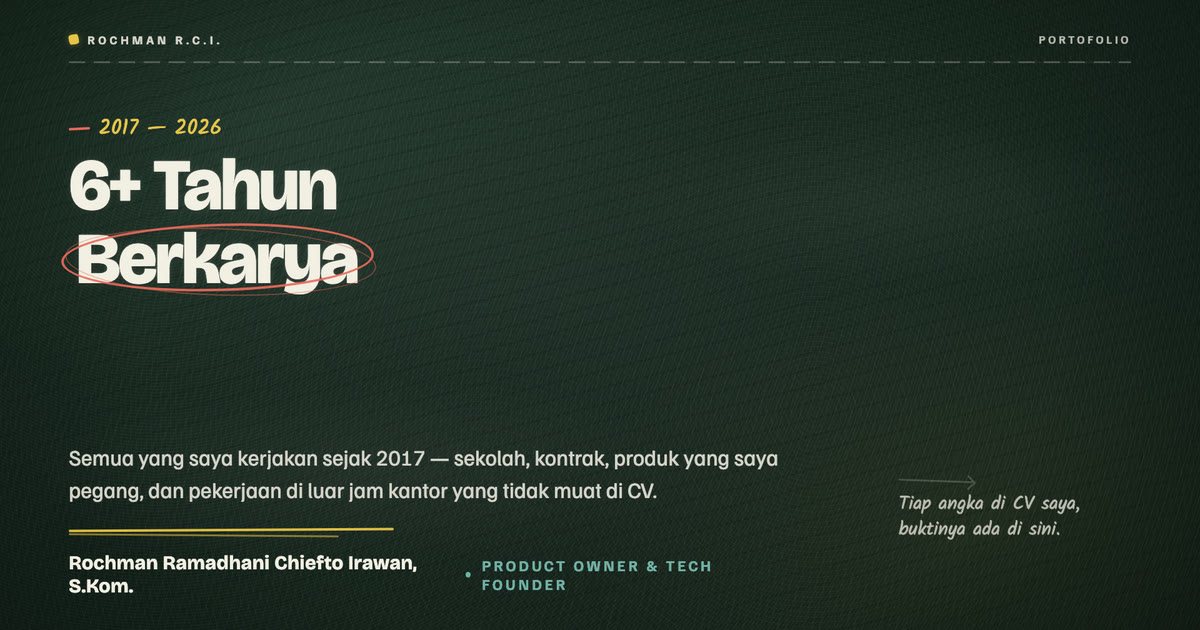
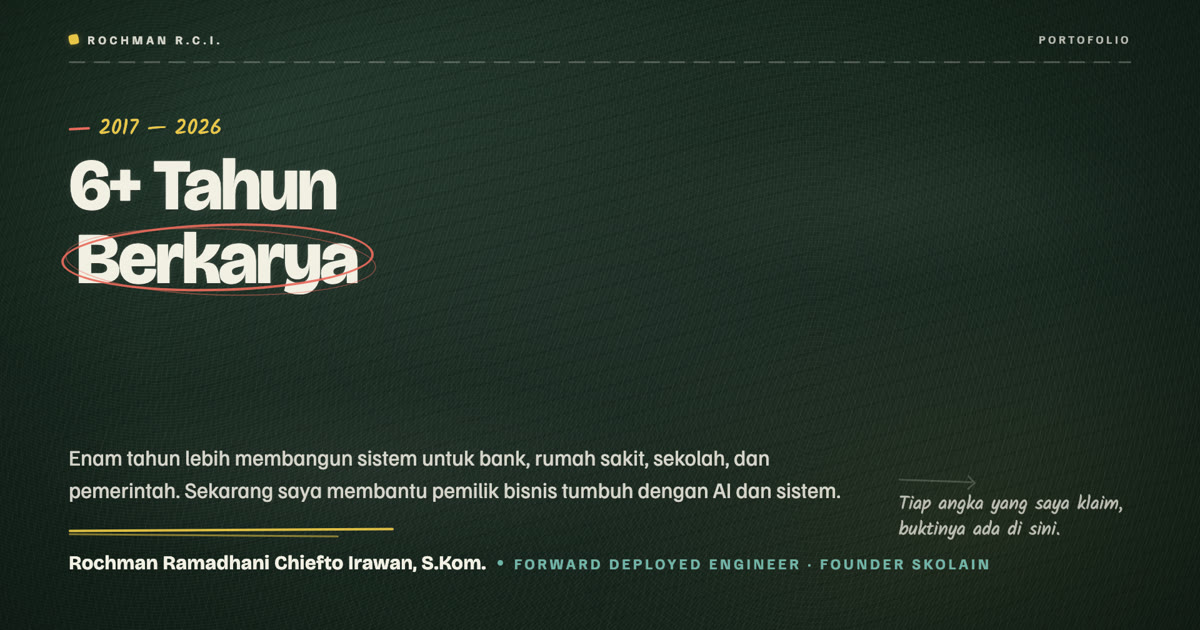
feat(deck): posisi FDE, AI Learning Partner sejak Agustus 2026, slide pemilik bisnis, handle baru (#7)

diff --git a/index.html b/index.html
@@ -4,7 +4,7 @@
 <meta charset="utf-8">
 <meta name="viewport" content="width=device-width, initial-scale=1, viewport-fit=cover">
 <title>6+ Tahun Berkarya — Portofolio Rochman Ramadhani</title>
-<meta name="description" content="Portofolio Rochman Ramadhani Chiefto Irawan — Product Owner & Tech Founder. Linimasa 2017–2026: sepuluh produk, konsultansi, dan pengajaran, lengkap dengan buktinya.">
+<meta name="description" content="Portofolio Rochman Ramadhani Chiefto Irawan — Forward Deployed Engineer yang membantu pemilik bisnis tumbuh dengan AI dan sistem. Founder Skolain. Linimasa 2017–2026: sepuluh produk, konsultansi, dan pengajaran, lengkap dengan buktinya.">
 <meta name="author" content="Rochman Ramadhani Chiefto Irawan">
 <meta name="theme-color" content="#14231C">
 <link rel="canonical" href="https://omanlabs.tech/">
@@ -21,21 +21,21 @@
 <meta property="og:site_name" content="Portofolio Rochman Ramadhani">
 <meta property="og:locale" content="id_ID">
 <meta property="og:title" content="6+ Tahun Berkarya — Portofolio Rochman Ramadhani">
-<meta property="og:description" content="Product Owner & Tech Founder. Linimasa 2017–2026: sepuluh produk, konsultansi, dan pengajaran, lengkap dengan buktinya.">
+<meta property="og:description" content="Forward Deployed Engineer — membantu pemilik bisnis tumbuh dengan AI dan sistem. Founder Skolain. 6+ tahun membangun untuk bank, rumah sakit, sekolah, dan pemerintah, lengkap dengan buktinya.">
 <meta property="og:url" content="https://omanlabs.tech/">
 <meta property="og:image" content="https://omanlabs.tech/assets/cover-v2.jpg">
 <meta property="og:image:type" content="image/jpeg">
 <meta property="og:image:width" content="1200">
 <meta property="og:image:height" content="630">
-<meta property="og:image:alt" content="Sampul deck: 6+ Tahun Berkarya — Rochman Ramadhani Chiefto Irawan, Product Owner & Tech Founder">
+<meta property="og:image:alt" content="Sampul deck: 6+ Tahun Berkarya — Rochman Ramadhani Chiefto Irawan, Forward Deployed Engineer · Founder Skolain">
 <meta property="profile:first_name" content="Rochman">
 <meta property="profile:last_name" content="Ramadhani Chiefto Irawan">
 
 <meta name="twitter:card" content="summary_large_image">
 <meta name="twitter:title" content="6+ Tahun Berkarya — Portofolio Rochman Ramadhani">
-<meta name="twitter:description" content="Product Owner & Tech Founder. Linimasa 2017–2026: sepuluh produk, konsultansi, dan pengajaran, lengkap dengan buktinya.">
+<meta name="twitter:description" content="Forward Deployed Engineer — membantu pemilik bisnis tumbuh dengan AI dan sistem. Founder Skolain. 6+ tahun membangun untuk bank, rumah sakit, sekolah, dan pemerintah, lengkap dengan buktinya.">
 <meta name="twitter:image" content="https://omanlabs.tech/assets/cover-v2.jpg">
-<meta name="twitter:image:alt" content="Sampul deck: 6+ Tahun Berkarya">
+<meta name="twitter:image:alt" content="Sampul deck: 6+ Tahun Berkarya — Rochman Ramadhani Chiefto Irawan, Forward Deployed Engineer · Founder Skolain">
 
 <style>
 /* ============================================================
@@ -915,18 +915,18 @@ a.card:focus-visible{outline:3px solid var(--yellow);outline-offset:4px;}
       6+ Tahun<br><span class="circled">Berkarya</span>
     </h1>
     <div class="cover-uline uline rv d3" style="--y:560px"><i></i><i></i></div>
-    <p class="cover-lead lead rv d4">
-      Semua yang saya kerjakan sejak 2017 — sekolah, kontrak, produk yang saya pegang,
-      dan pekerjaan di luar jam kantor yang tidak muat di CV.
+    <p class="cover-lead lead rv d4" style="width:1300px">
+      Enam tahun lebih membangun sistem untuk bank, rumah sakit, sekolah, dan pemerintah.
+      Sekarang saya membantu pemilik bisnis tumbuh dengan AI dan sistem.
     </p>
-    <div class="cover-by rv d5">
+    <div class="cover-by rv d5" style="width:1700px">
       <span class="name">Rochman Ramadhani Chiefto Irawan, S.Kom.</span>
       <span class="sep"></span>
-      <span class="role">Product Owner &amp; Tech Founder</span>
+      <span class="role">Forward Deployed Engineer · Founder Skolain</span>
     </div>
     <div class="cover-annot annot rv d6">
       <span class="arw"></span>
-      Tiap angka di CV saya, buktinya ada di sini.
+      Tiap angka yang saya klaim, buktinya ada di sini.
     </div>
   </div>
 </section>
@@ -940,20 +940,23 @@ a.card:focus-visible{outline:3px solid var(--yellow);outline-offset:4px;}
     <h2 class="head-md pos rv d2" style="--x:110px;--y:228px;--w:1120px">
       Rochman Ramadhani<br>Chiefto Irawan, S.Kom.
     </h2>
-    <div class="tx-m pos rv d3" style="--x:110px;--y:412px;--w:1060px">
-      Product Owner &amp; Tech Founder, Skolain — berangkat dari engineering.
+    <div class="tx-m pos rv d3" style="--x:110px;--y:404px;--w:1060px">
+      Forward Deployed Engineer — membantu pemilik bisnis tumbuh dengan AI dan sistem. Berangkat dari engineering.
     </div>
 
-    <div class="hbox glow ac-y pos rvbox d4" style="--x:110px;--y:502px;--w:1060px">
-      <div class="hbox-tag">sama seperti banyak orang</div>
-      <div class="tx-l mt-16">Saya juga lulusan <span class="mark-y">SMK</span></div>
-      <div class="hbox-text">SMKN 26 Jakarta · Sistem Informatika Jaringan · 2017–2021</div>
+    <div class="hbox glow ac-y pos rvbox d4" style="--x:110px;--y:510px;--w:1060px">
+      <div class="hbox-tag">sekarang</div>
+      <div class="items">
+        <div class="item"><span class="bx"></span><span class="tx"><b>Founder</b>, Skolain · sejak Juni 2026</span></div>
+        <div class="item"><span class="bx"></span><span class="tx"><b>Technology Partner</b>, Hegemoni Group · sejak Mei 2026</span></div>
+        <div class="item"><span class="bx"></span><span class="tx"><b>AI Learning Partner</b>, bersama Coach Rheo · sejak Agustus 2026</span></div>
+      </div>
     </div>
 
-    <div class="hbox ac-t pos rvbox d5" style="--x:110px;--y:706px;--w:1060px">
-      <div class="hbox-tag good">8 Agustus 2026</div>
-      <div class="tx-l mt-16">S.Kom. — <span class="mark-t">Sistem Informasi</span></div>
-      <div class="hbox-text">Binus Online Learning · kuliah sambil kerja penuh waktu · IPK 3,85, Magna Cum Laude</div>
+    <div class="hbox ac-t pos rvbox d5" style="--x:110px;--y:760px;--w:1060px">
+      <div class="hbox-tag good">sama seperti banyak orang</div>
+      <div class="tx-l mt-16">Lulusan <span class="mark-y">SMK</span>, lalu S.Kom. <span class="mark-t">Sistem Informasi</span></div>
+      <div class="hbox-text">SMKN 26 Jakarta, 2017–2021 · Binus, 8 Agustus 2026 · IPK 3,85, Magna Cum Laude</div>
     </div>
 
     <div class="photoframe pos rvbox d6" style="--x:1300px;--y:222px;--pw:470px;--ph:600px;--rot:2deg">
@@ -1031,7 +1034,7 @@ a.card:focus-visible{outline:3px solid var(--yellow);outline-offset:4px;}
       <div class="lane ac-c"><div class="lane-label">Konsultansi &amp; produk sendiri</div>
         <div class="lane-track">
           <span class="bar lbl-out" style="--y0:2024.0;--y1:2024.33"><span class="t">KLHK</span></span>
-          <span class="bar open lbl-left" style="--y0:2026.417;--y1:2026.63"><span class="t">Skolain — Tech Founder</span></span>
+          <span class="bar open lbl-left" style="--y0:2026.417;--y1:2026.63"><span class="t">Skolain — Founder</span></span>
         </div></div>
     </div>
 
@@ -1310,7 +1313,7 @@ a.card:focus-visible{outline:3px solid var(--yellow);outline-offset:4px;}
         <div class="card-num sm">Jun 2026 →</div>
         <div class="card-rule"></div>
         <div class="card-title">Skolain</div>
-        <div class="card-text">Tech Founder &amp; Product Owner. Produk pertama yang saya dirikan sendiri —
+        <div class="card-text">Founder &amp; Product Owner. Produk pertama yang saya dirikan sendiri —
           discovery, roadmap, prioritas rilis, acceptance criteria, sampai memimpin tim lintas fungsi ke production.</div>
       </div>
       <div class="card ac-t rvbox d6">
@@ -1381,7 +1384,7 @@ a.card:focus-visible{outline:3px solid var(--yellow);outline-offset:4px;}
       </div>
       <div class="map-row"><div class="map-a">Skolain</div>
         <div class="map-link"><span class="arrow"></span></div>
-        <div class="map-b">Tech Founder &amp; Product Owner — dari nol</div></div>
+        <div class="map-b">Founder &amp; Product Owner — dari nol</div></div>
       <div class="map-row"><div class="map-a">Dashboard keanggotaan asosiasi dokter</div>
         <div class="map-link"><span class="arrow"></span></div>
         <div class="map-b">Product Owner</div></div>
@@ -2012,39 +2015,39 @@ a.card:focus-visible{outline:3px solid var(--yellow);outline-offset:4px;}
   </div>
 </section>
 
-<!-- ===== 29 — ADVISORY: COACH RHEO ===== -->
-<section class="slide" data-sect="Advisory" data-sid="advisory">
+<!-- ===== 29 — KOLABORASI: COACH RHEO ===== -->
+<section class="slide" data-sect="Kolaborasi" data-sid="advisory">
   <div class="layer">
     <div class="eyebrow ac-y pos rv d1" style="--x:110px;--y:176px">
-      <span class="tick"></span><span class="t">AI Advisor · sejak Juli 2025</span>
+      <span class="tick"></span><span class="t">AI Learning Partner · sejak Agustus 2026</span>
     </div>
     <h2 class="head-md pos rv d2" style="--x:110px;--y:220px;--w:1700px">
-      AI advisor untuk pemilik bisnis.
+      Belajar AI bareng pemilik bisnis.
     </h2>
 
     <p class="lead pos rv d3" style="--x:110px;--y:344px;--w:740px">
       Coach Rheo menjalankan doatrto.com dan beberapa unit bisnis lain.
-      Saya mendampinginya memakai AI untuk operasional sehari-hari.
+      Kami belajar AI bareng, langsung di operasional sehari-harinya.
     </p>
 
     <div class="items lg pos rv d4" style="--x:110px;--y:500px;--w:740px">
-      <div class="item"><span class="bx"></span><span class="tx">Memilih kasus pakai yang benar-benar berdampak, bukan yang paling ramai dibicarakan.</span></div>
-      <div class="item"><span class="bx"></span><span class="tx">Menyusun alur kerja berbantuan AI untuk pekerjaan yang berulang tiap hari.</span></div>
-      <div class="item"><span class="bx"></span><span class="tx">Mendampingi langsung sampai timnya bisa jalan tanpa saya.</span></div>
+      <div class="item"><span class="bx"></span><span class="tx">Mencoba bareng kasus pakai yang benar-benar berdampak, bukan yang paling ramai dibicarakan.</span></div>
+      <div class="item"><span class="bx"></span><span class="tx">Menyusun bersama alur kerja berbantuan AI untuk pekerjaan yang berulang tiap hari.</span></div>
+      <div class="item"><span class="bx"></span><span class="tx">Terus jalan bareng sampai timnya bisa menjalankannya sendiri.</span></div>
     </div>
 
     <div class="annot pos rv d5" style="--x:110px;--y:872px;--w:740px">
-      Sesi satu-satu, bukan pelatihan kelas. Materinya menyesuaikan masalah bisnisnya hari itu.
+      Duduk satu meja, bukan pelatihan kelas. Bahannya masalah bisnisnya hari itu.
     </div>
 
     <div class="photostrip pos" style="--x:900px;--y:350px;--w:910px">
       <div class="photoframe rvbox d6" style="--pw:250px;--ph:445px">
         <span class="tape"></span>
-        <img src="assets/caezar-01.jpg" alt="Sesi pendampingan AI bersama Coach Rheo">
+        <img src="assets/caezar-01.jpg" alt="Sesi belajar AI bareng Coach Rheo">
         <span class="cap">sesi kerja</span></div>
       <div class="photoframe rvbox d7" style="--pw:250px;--ph:445px">
         <span class="tape"></span>
-        <img src="assets/caezar-03.jpg" alt="Membedah kasus pakai AI">
+        <img src="assets/caezar-03.jpg" alt="Membedah kasus pakai AI bersama Coach Rheo">
         <span class="cap">bedah kasus pakai</span></div>
       <div class="photoframe rvbox d8" style="--pw:250px;--ph:445px">
         <span class="tape"></span>
@@ -2054,11 +2057,11 @@ a.card:focus-visible{outline:3px solid var(--yellow);outline-offset:4px;}
   </div>
 </section>
 
-<!-- ===== 30 — ADVISORY: HEGEMONI GROUP ===== -->
-<section class="slide" data-sect="Advisory" data-sid="hegemoni">
+<!-- ===== 30 — KOLABORASI: HEGEMONI GROUP ===== -->
+<section class="slide" data-sect="Kolaborasi" data-sid="hegemoni">
   <div class="layer">
     <div class="eyebrow ac-t pos rv d1" style="--x:110px;--y:176px">
-      <span class="tick"></span><span class="t">Hegemoni Group · Mei 2026</span>
+      <span class="tick"></span><span class="t">Hegemoni Group · sejak Mei 2026</span>
     </div>
     <h2 class="head-md pos rv d2" style="--x:110px;--y:220px;--w:1000px">
       Technology Partner.
@@ -2332,9 +2335,48 @@ a.card:focus-visible{outline:3px solid var(--yellow);outline-offset:4px;}
   </div>
 </section>
 
+<!-- ===== 38 — UNTUK PEMILIK BISNIS ===== -->
+<section class="slide" data-sect="Untuk pemilik bisnis" data-sid="bisnis">
+  <div class="layer">
+    <div class="eyebrow ac-c pos rv d1" style="--x:110px;--y:180px">
+      <span class="tick"></span><span class="t">Yang saya kerjakan sekarang</span>
+    </div>
+    <h2 class="head-md pos rv d2" style="--x:110px;--y:224px;--w:1700px">
+      Kalau Anda pemilik bisnis.
+    </h2>
+
+    <div class="flow pos" style="--x:110px;--y:376px;--w:1700px">
+      <div class="stepbox ac-c rvbox d3"><div class="step-num"><span class="n">01</span><span class="dot"></span></div>
+        <div class="step-title">Ikut turun ke bisnisnya</div>
+        <div class="step-text">Melihat langsung cara tim bekerja sehari-hari, bukan menebak dari jauh.</div></div>
+      <div class="flow-arrow"><span class="arrow"></span></div>
+      <div class="stepbox ac-y rvbox d4"><div class="step-num"><span class="n">02</span><span class="dot"></span></div>
+        <div class="step-title">Cari yang paling makan waktu &amp; biaya</div>
+        <div class="step-text">Ongkos tiap pilihan dihitung sebelum ada yang dibangun.</div></div>
+      <div class="flow-arrow"><span class="arrow"></span></div>
+      <div class="stepbox ac-t rvbox d5"><div class="step-num"><span class="n">03</span><span class="dot"></span></div>
+        <div class="step-title">Bangun sistem &amp; AI-nya</div>
+        <div class="step-text">Alur kerja berbantuan AI dan sistem yang tetap jalan saat dipakai banyak orang.</div></div>
+      <div class="flow-arrow"><span class="arrow"></span></div>
+      <div class="stepbox ac-y rvbox d6"><div class="step-num"><span class="n">04</span><span class="dot"></span></div>
+        <div class="step-title">Sampai tim jalan sendiri</div>
+        <div class="step-text">Saya tetap ikut sampai timnya menjalankannya tanpa saya.</div></div>
+    </div>
+
+    <div class="cards n3 pos" style="--x:110px;--y:690px">
+      <a class="card ac-y rvbox d7" href="#omnichannel"><div class="card-num sm">−60%</div><div class="card-rule"></div>
+        <div class="card-text">Biaya operasional platform omnichannel di salah satu perusahaan telekomunikasi terbesar di Indonesia.</div></a>
+      <a class="card ac-c rvbox d8" href="#hris"><div class="card-num sm">50.000+</div><div class="card-rule"></div>
+        <div class="card-text">Pengguna aktif HRIS yang saya arsiteki untuk perusahaan jasa SDM nasional.</div></a>
+      <a class="card ac-t rvbox d9" href="#skolain"><div class="card-num sm">1.600+</div><div class="card-rule"></div>
+        <div class="card-text">Pengguna aktif Skolain, produk yang saya bangun dari nol.</div></a>
+    </div>
+  </div>
+</section>
+
 <!-- ================= F · PENUTUP ================= -->
 
-<!-- ===== 38 — CV + KONTAK ===== -->
+<!-- ===== 39 — CV + KONTAK ===== -->
 <section class="slide" data-sect="Kontak" data-sid="kontak">
   <div class="layer">
     <div class="eyebrow ac-t pos rv d1" style="--x:110px;--y:170px">
@@ -2359,25 +2401,35 @@ a.card:focus-visible{outline:3px solid var(--yellow);outline-offset:4px;}
       Unduh CV (PDF) <span class="ar"></span>
     </a>
 
-    <div class="cards n4 pos" style="--x:110px;--y:686px">
-      <a class="card ac-t rvbox d5" href="mailto:rochmanramadhani12@gmail.com">
-        <div class="card-title sm">Email</div>
-        <div class="card-text">rochmanramadhani12<br>@gmail.com</div></a>
-      <a class="card ac-y rvbox d6" href="https://www.linkedin.com/in/rochmanrmdhn/" target="_blank" rel="noopener">
-        <div class="card-title sm">LinkedIn</div>
-        <div class="card-text">@rochmanrmdhn</div></a>
-      <a class="card ac-c rvbox d7" href="https://github.com/rochmanramadhani/" target="_blank" rel="noopener">
-        <div class="card-title sm">GitHub</div>
-        <div class="card-text">@rochmanramadhani</div></a>
-      <a class="card ac-t rvbox d8" href="https://www.instagram.com/rochmanrmdhn/" target="_blank" rel="noopener">
-        <div class="card-title sm">Instagram</div>
-        <div class="card-text">@rochmanrmdhn</div></a>
+    <div class="annot pos rv d4" style="--x:480px;--y:574px;--w:1330px">
+      Punya bisnis dan penasaran AI cocoknya di bagian mana? Chat saja lewat WhatsApp, atau DM di Instagram.
     </div>
 
-    <div class="cover-by rv d9" style="top:928px;width:1700px">
+    <div class="cards n5 pos" style="--x:110px;--y:686px">
+      <a class="card ac-c rvbox d5" href="https://wa.me/6281381039158" target="_blank" rel="noopener">
+        <div class="card-title sm">WhatsApp</div>
+        <div class="card-text">+62 813<br>8103 9158</div></a>
+      <a class="card ac-t rvbox d6" href="mailto:rochmanramadhani12@gmail.com">
+        <div class="card-title sm">Email</div>
+        <div class="card-text">rochmanramadhani12<br>@gmail.com</div></a>
+      <a class="card ac-y rvbox d7" href="https://www.instagram.com/rochmanrmdhnn/" target="_blank" rel="noopener">
+        <div class="card-title sm">Instagram</div>
+        <div class="card-text">@rochmanrmdhnn</div></a>
+      <a class="card ac-c rvbox d8" href="https://www.linkedin.com/in/rochmanrmdhn/" target="_blank" rel="noopener">
+        <div class="card-title sm">LinkedIn</div>
+        <div class="card-text">@rochmanrmdhn</div></a>
+      <a class="card ac-t rvbox d9" href="https://github.com/rochmanramadhani/" target="_blank" rel="noopener">
+        <div class="card-title sm">GitHub</div>
+        <div class="card-text">@rochmanramadhani</div></a>
+    </div>
+
+    <div class="cover-by rv d9" style="top:904px;width:1700px">
       <span class="name">Rochman Ramadhani Chiefto Irawan, S.Kom.</span>
       <span class="sep"></span>
-      <span class="role">Product Owner &amp; Tech Founder, Skolain</span>
+      <span class="role">Forward Deployed Engineer</span>
+    </div>
+    <div class="credit pos rv d9" style="--x:110px;--y:960px;--w:1700px">
+      Founder, Skolain · Technology Partner, Hegemoni Group · AI Learning Partner
     </div>
   </div>
 </section>
@@ -2411,7 +2463,7 @@ var ALIASES = {
   produk:11, skolain:13, hris:15, rumahsakit:16, wholesale:17, omnichannel:18,
   bank:19, nucare:20, linkit:21, stack:22,
   frames:24, klhk:26, dokter:27, advisory:28, hegemoni:29, seminar:30, pdc:31, peringkat:32,
-  carakerja:33, cv:37, kontak:37
+  carakerja:33, bisnis:37, cv:38, kontak:38
 };
 
 var stage    = document.getElementById('deckStage');
@@ -2603,7 +2655,7 @@ function editablesOf(slide){
   return Array.prototype.slice.call(slide.querySelectorAll(EDITABLE_SELECTOR));
 }
 /* Kunci berbasis data-sid, bukan indeks slide. Skema indeks di deck lama menggeser
-   seluruh edit slide berikutnya begitu satu slide disisipkan — di deck 38 slide yang
+   seluruh edit slide berikutnya begitu satu slide disisipkan — di deck 39 slide yang
    masih terus diedit, itu bukan skenario hipotetis. */
 function storeKey(slide, slideIndex, elIndex){
   return STORE_PREFIX + (slide.getAttribute('data-sid') || ('i' + slideIndex)) + ':' + elIndex;

diff --git a/cv/cv.html b/cv/cv.html
@@ -251,8 +251,8 @@
 
 <ul class="dampak">
   <li><b>Technology Partner — Hegemoni Group</b> (Mei 2026 – sekarang). Mendampingi keputusan teknologi grup.</li>
-  <li><b>AI Advisor untuk pemilik bisnis — Coach Rheo</b>, pemilik doatrto.com dan beberapa unit bisnis lain (Juli 2025 – sekarang).
-      Memilih kasus pakai AI yang menghasilkan dan mendampingi tim sampai menjalankannya sendiri.</li>
+  <li><b>AI Learning Partner — Coach Rheo</b>, pemilik doatrto.com dan beberapa unit bisnis lain (Agustus 2026 – sekarang).
+      Belajar dan membangun alur kerja AI bareng, mencari kasus pakai yang menghasilkan, sampai timnya jalan sendiri.</li>
   <li><b>Pemateri — SMK Jakarta Pusat 1 bersama TechPedia</b> (12–13 Agustus 2026). “Unlocking the Future: Koding,
       AI &amp; Personal Branding untuk Generasi Digital”, seminar dua hari, ±6 jam sesi.</li>
 </ul>

diff --git a/PROFIL.md b/PROFIL.md
@@ -35,10 +35,15 @@ Alias deep-link deck: `#bank`, `#wholesale`, `#omnichannel`, `#rumahsakit`, `#hr
 - Nama lengkap: Rochman Ramadhani Chiefto Irawan, S.Kom. Panggilan: Oman. Jakarta. Lahir 12 Desember 2001.
 - Posisi: Forward Deployed Engineer — membantu pemilik bisnis Indonesia tumbuh dengan AI dan sistem.
 - Peran sekarang: Founder Skolain (PT Inovasi Mitra Konsultan); Technology Partner, Hegemoni Group;
-  AI Advisor untuk pemilik bisnis.
+  AI Learning Partner untuk pemilik bisnis (Coach Rheo, sejak Agustus 2026).
+- Kerja bareng Coach Rheo disebut **AI Learning Partner** / "belajar AI bareng", bukan "AI Advisor", "AI Coaching",
+  atau "AI Training": kesannya kolaborasi sesama, bukan menggurui.
 - Hub tautan: **omanlabs.tech**. Email rochmanramadhani12@gmail.com · WhatsApp +62 813 8103 9158.
-- Handle: `rochmanrmdhn` di semua platform kecuali Facebook (`rochmanrmdhnn`) dan GitHub (`rochmanramadhani`).
-  Target akhir semuanya `rochmanrmdhnn`, setelah kunci username TikTok lepas (±19 November 2026).
+- Handle (21 Oktober 2026):
+  - `rochmanrmdhnn`: X, Instagram, Threads, Facebook, YouTube, Pinterest, GitLab.
+  - `rochmanrmdhn`: LinkedIn (custom URL belum bisa diganti), TikTok (terkunci sampai 19 November 2026),
+    lynk.id (username tidak bisa diganti dari dasbor).
+  - GitHub tetap `rochmanramadhani` sampai rename di Multica OL-861.
 
 ## Linimasa
 
@@ -63,10 +68,10 @@ Alias deep-link deck: `#bank`, `#wholesale`, `#omnichannel`, `#rumahsakit`, `#hr
 | Agt 2024 – Jan 2025 | Telko — platform komunikasi omnichannel; biaya operasional turun 60% | Senior Software Engineer |
 | Des 2024 – Des 2025 | Bank — platform layanan frontliner, kembali | Senior Software Engineer |
 | Jul 2025 – Mei 2026 | PT Mastah Digital Teknologi | Engineering Manager, paruh waktu |
-| Jul 2025 – sekarang | AI Advisor untuk pemilik bisnis (Coach Rheo, doatrto.com) | AI Advisor |
 | 2026 | Dashboard keanggotaan asosiasi dokter nasional (150.000 dokter) | Product Owner |
 | Mei 2026 – sekarang | Hegemoni Group | Technology Partner |
 | Jun 2026 – sekarang | Skolain | Founder & Product Owner |
+| Agt 2026 – sekarang | Belajar AI bareng pemilik bisnis (Coach Rheo, doatrto.com) | AI Learning Partner |
 | 12–13 Agt 2026 | Seminar SMK Jakarta Pusat 1 × TechPedia | Pemateri |
 
 Sistem HSE rumah sakit (Software Architect, 6 engineer, 500+ pengguna harian) dan HRIS 50.000+ pengguna belum
@@ -117,7 +122,7 @@ About:
 > • Took Skolain, my school platform, from zero to 1,600+ active users
 > • Grew an engineering team from 7 to 30+
 >
-> Today I'm the founder of Skolain, Technology Partner at Hegemoni Group, and an AI advisor to business owners: picking the use cases that actually pay off, building AI-assisted workflows, and staying until the team runs them on its own.
+> Today I'm the founder of Skolain, Technology Partner at Hegemoni Group, and an AI learning partner to business owners: we find the use cases that actually pay off, build AI-assisted workflows together, and I stay until the team runs them on its own.
 >
 > It started at vocational school: 1st place at Kamp Kreatif SMK Indonesia 2019 (Ministry of Education) with Ngajar, a two-way classroom app, and 1st place at PermataYouthPreneur 2020 with Bayar, a fintech app.
 >

diff --git a/README.md b/README.md
@@ -2,7 +2,11 @@
 
 Dua dokumen yang saling menopang:
 
-- **`index.html`** — deck *6+ Tahun Berkarya*. 38 slide, satu file HTML, tanpa dependensi.
+- **`index.html`** — deck *6+ Tahun Berkarya*. 39 slide, satu file HTML, tanpa dependensi. Ini hub tautan
+  (omanlabs.tech) yang dituju semua bio media sosial, jadi sampul, slide kenalan, dan penutupnya membuka dengan
+  posisi sekarang: Forward Deployed Engineer yang membantu pemilik bisnis tumbuh dengan AI dan sistem — Founder
+  Skolain, Technology Partner di Hegemoni Group, AI Learning Partner. Slide `#bisnis` merangkum yang dikerjakan
+  untuk pemilik bisnis, dan slide kontak menaruh WhatsApp paling depan.
   Lapisan dokumentasi: linimasa lengkap 2017–2026, produk yang dipegang, konsultansi, dan bukti kerjanya.
 - **`cv/cv.html`** → **`assets/CV_Rochman_Ramadhani_Product_Owner.pdf`** — CV tiga halaman, fokus ke hasil.
 
@@ -30,7 +34,7 @@ Nomor slide tersimpan di hash URL (`#15`), tapi untuk ditulis di CV pakai **alia
 
 ```
 #peta  #angka  #skolain  #hris  #rumahsakit  #wholesale  #omnichannel  #bank
-#frames  #klhk  #dokter  #advisory  #hegemoni  #seminar  #pdc  #peringkat  #carakerja  #kontak
+#frames  #klhk  #dokter  #advisory  #hegemoni  #seminar  #pdc  #peringkat  #carakerja  #bisnis  #kontak
 ```
 
 Hash posisional putus begitu ada satu slide disisipkan, sementara PDF CV yang sudah beredar tidak bisa
